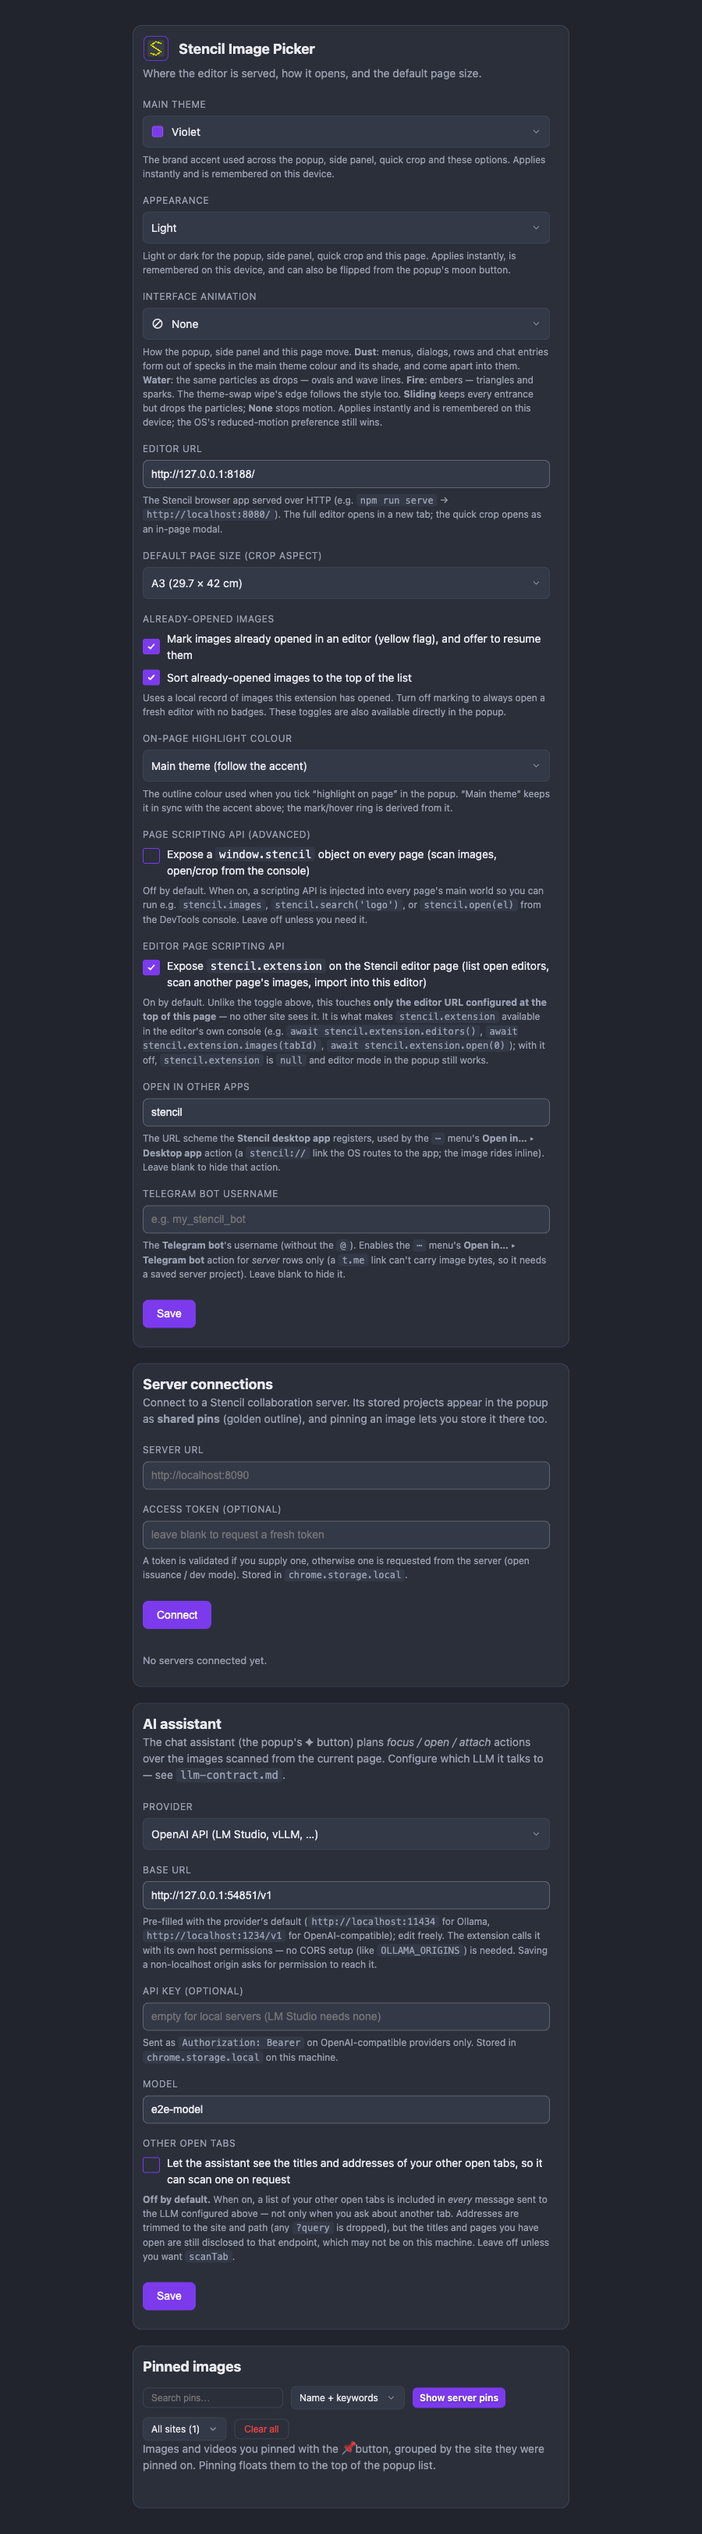
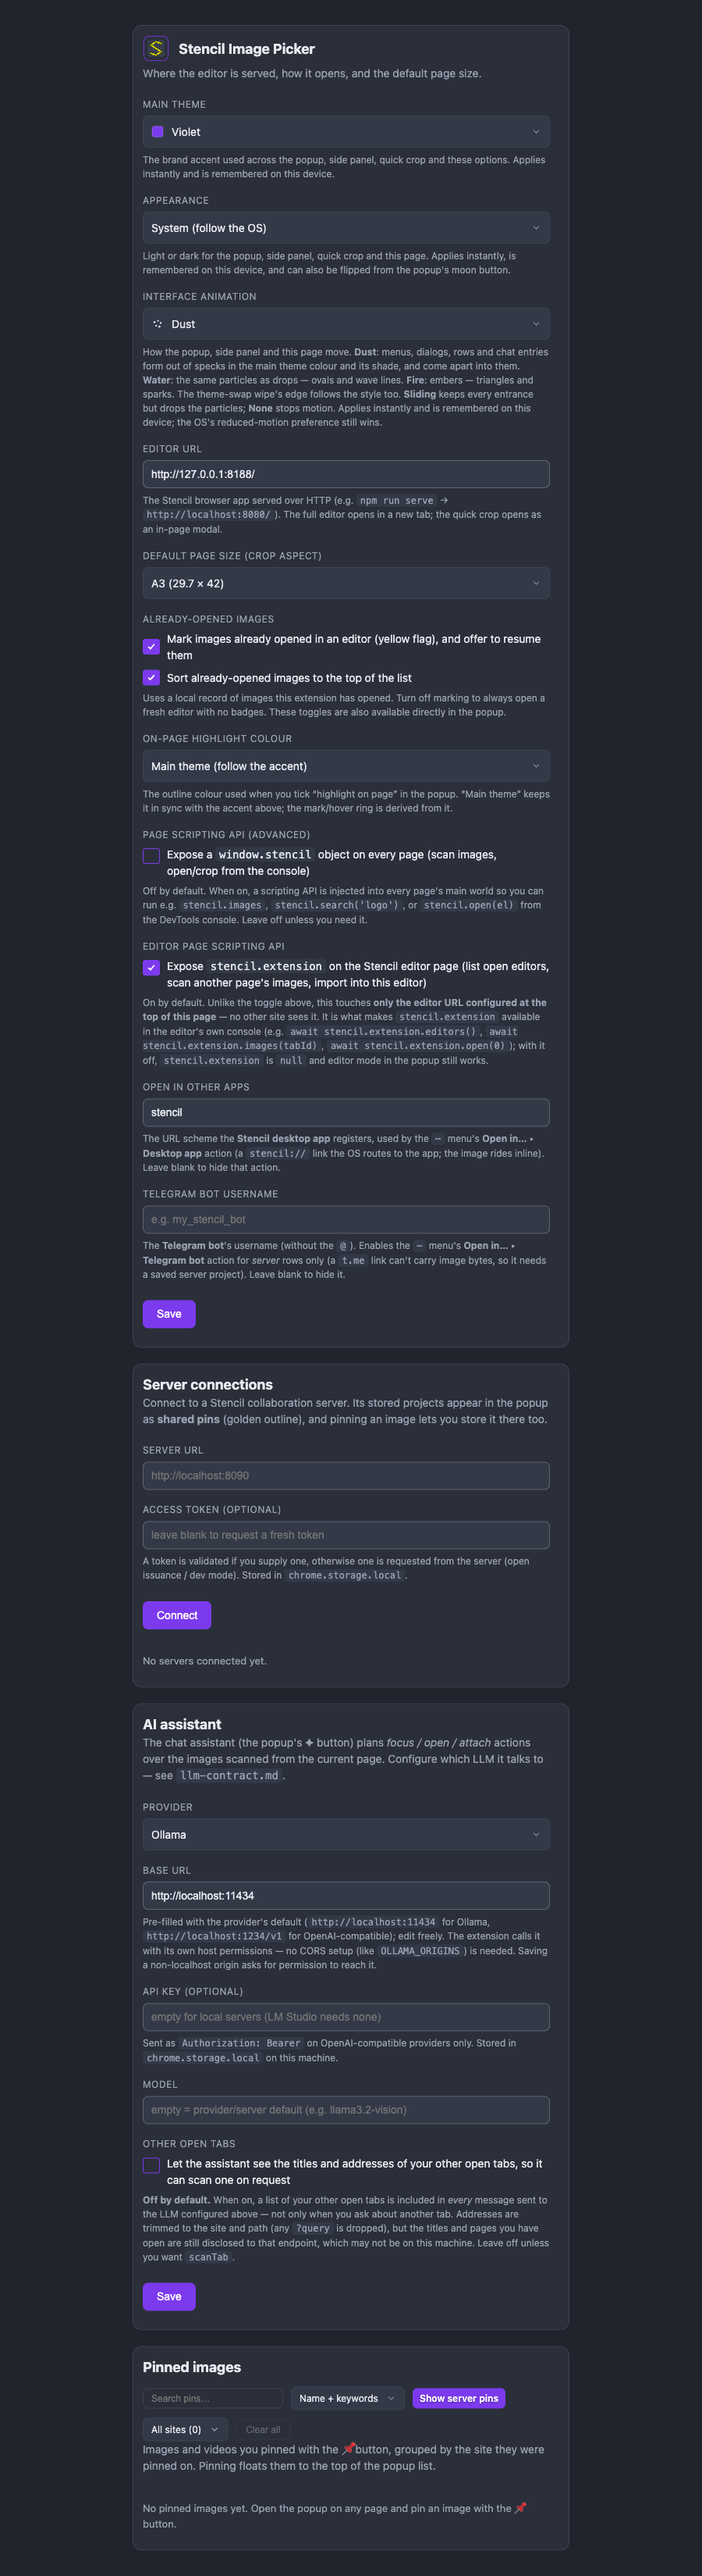
Drop the unit word from the extension's page labels, and re-shoot the two that show them

diff --git a/browser-extension/tests/cropGeometry.test.js b/browser-extension/tests/cropGeometry.test.js
@@ -36,15 +36,15 @@ test('PAGE_SIZES: the full ISO A/B/C table in canonical order', () => {
     assert.ok(width > 0 && width < height);
 });
 
-test('pageSizeLabel: name + cm dims; unknown names pass through', () => {
-  assert.equal(pageSizeLabel('A4'), 'A4 (21 × 29.7 cm)');
-  assert.equal(pageSizeLabel('B5'), 'B5 (17.6 × 25 cm)');
+test('pageSizeLabel: name + bare dims, no unit word; unknown names pass through', () => {
+  assert.equal(pageSizeLabel('A4'), 'A4 (21 × 29.7)');
+  assert.equal(pageSizeLabel('B5'), 'B5 (17.6 × 25)');
   assert.equal(pageSizeLabel('nope'), 'nope');
 });
 
 test('pageSizeOptions: one labelled <option> per named format, canonical order', () => {
   const html = pageSizeOptions();
-  assert.ok(html.startsWith('<option value="A0">A0 (84.1 × 118.9 cm)</option>'));
-  assert.ok(html.includes('<option value="A4">A4 (21 × 29.7 cm)</option>'));
+  assert.ok(html.startsWith('<option value="A0">A0 (84.1 × 118.9)</option>'));
+  assert.ok(html.includes('<option value="A4">A4 (21 × 29.7)</option>'));
   assert.equal((html.match(/<option /g) || []).length, Object.keys(PAGE_SIZES).length);
 });

diff --git a/browser-extension/src/lib/cropGeometry.js b/browser-extension/src/lib/cropGeometry.js
@@ -42,11 +42,13 @@ export const PAGE_SIZES = Object.freeze({
 });
 export const DEFAULT_PAGE = 'A3';
 
-// Selector label for a named format, e.g. "A4 (21 × 29.7 cm)" (extension UI copy
-// of the shared label shape; the table values need no rounding/trimming).
+// Selector label for a named format, e.g. "A4 (21 × 29.7)" — no trailing unit word: the
+// page in cm is stated once beside the Custom W/H fields, and repeating it per option said
+// nothing new (browser/desktop twin: units.js pageFormatLabel, guiHelpers fillPageSizeCombo).
+// The table values need no rounding/trimming.
 export const pageSizeLabel = (name) => {
   const d = PAGE_SIZES[name];
-  return d ? `${name} (${d.width} × ${d.height} cm)` : name;
+  return d ? `${name} (${d.width} × ${d.height})` : name;
 };
 
 // <option> markup for every named format (canonical order, labelled via
